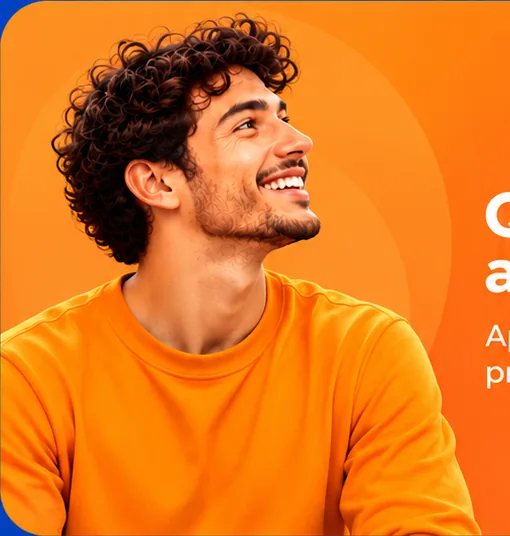
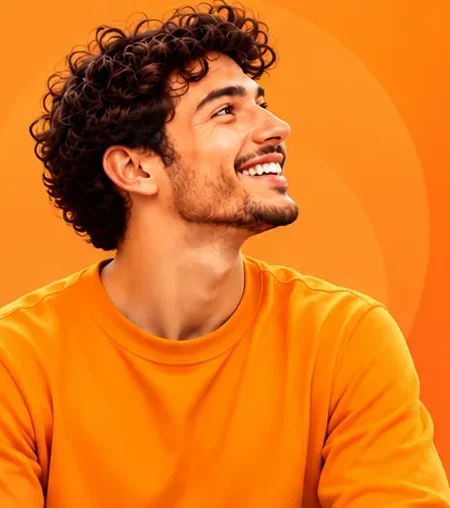
Hazluno: modo computador e foto do "Quiero aprender" sem texto antigo
- Computador (≥1000px): menu no topo em vez da barra de baixo; início com
  cartões em grade; abertura em duas colunas; entrar/criar conta com imagem
  à esquerda e formulário à direita; escolher aprender/ensinar lado a lado;
  foto do curso em faixa; logo não aparece repetido nas páginas
- choose-learn.webp: recortada a borda com texto antigo gravado na imagem

Claude-Session: https://claude.ai/code/session_01HspcqP295BKo9VdY2yVLHw

diff --git a/HAZLUNO/frontend/src/styles.css b/HAZLUNO/frontend/src/styles.css
@@ -902,3 +902,60 @@ a.btn-small { text-decoration: none; }
 .adm-q-blue { background: var(--blue-50); color: var(--blue-800); } .adm-q-green { background: #e5f7ea; color: #137a34; }
 /* Faixa fixa atrás da barra de status do celular: o conteúdo nunca fica por baixo da hora e da bateria. */
 body::before { content: ''; position: fixed; z-index: 1000; top: 0; left: 0; right: 0; height: var(--sat); background: #0a37b3; pointer-events: none; }
+/* =================== modo computador (≥1000px) =================== */
+.tabbar-brand { display: none; }
+@media (min-width: 1000px) {
+  /* menu no topo em vez da barra de baixo */
+  .shell-page { padding-bottom: 0; padding-top: calc(68px + var(--sat)); }
+  .tabbar { top: 0; bottom: auto; display: flex; align-items: center; gap: 4px; height: calc(68px + var(--sat));
+    padding: var(--sat) max(24px, calc((100vw - 1240px) / 2)) 0; box-shadow: 0 8px 24px -18px rgba(3, 18, 70, 0.9); }
+  .tabbar-brand { display: block; margin-right: auto; text-decoration: none; }
+  .tab { flex-direction: row; gap: 8px; padding: 10px 14px; border-radius: 12px; font-size: 15px; }
+  .tab:hover { background: rgba(255, 255, 255, 0.08); }
+  .tab-on { background: rgba(255, 255, 255, 0.12); }
+  .tab-on::after { display: none; }
+  .cta-bar, .choosecls-foot { left: 50%; right: auto; width: min(760px, 100vw); transform: translateX(-50%); }
+
+  /* início do aluno: conteúdo largo e cartões em grade */
+  .home-bar { display: none; }
+  .home-head, .home-body { max-width: 1180px; }
+  .home-head { padding-top: 40px; }
+  .home-question { font-size: 44px; }
+  .home .searchbar { max-width: 640px; }
+  .home .cards-row { grid-auto-flow: row; grid-auto-columns: auto; grid-template-columns: repeat(auto-fill, minmax(300px, 1fr)); overflow: visible; }
+  .home-art { display: none; }
+  .shell-page .page-head > .wordmark, .shell-page .wordmark:first-child { display: none; }
+  /* detalhe do curso: foto em faixa com cantos, sem rosto gigante */
+  .detail-hero { height: 340px; max-width: 1180px; margin: 16px auto 0; border-radius: 24px; }
+  .detail-hero img { object-position: center 30%; }
+
+  /* abertura: foto à esquerda, texto e botões à direita */
+  .welcome { display: grid; grid-template-columns: minmax(0, 1.1fr) minmax(0, 1fr); align-items: center; column-gap: 48px;
+    min-height: 100vh; padding: 0 max(32px, calc((100vw - 1240px) / 2)); }
+  .welcome-hero { max-width: none; align-self: end; }
+  .welcome-hero img { -webkit-mask-image: linear-gradient(90deg, transparent 0, #000 10%, #000 90%, transparent 100%), linear-gradient(180deg, transparent 0, #000 12%, #000 78%, transparent 100%);
+    -webkit-mask-composite: source-in; mask-image: linear-gradient(90deg, transparent 0, #000 10%, #000 90%, transparent 100%), linear-gradient(180deg, transparent 0, #000 12%, #000 78%, transparent 100%); mask-composite: intersect; }
+  .welcome-body { margin: 0; max-width: 520px; padding: 48px 0; align-items: flex-start; text-align: left; }
+  .welcome-tagline { font-size: 30px; max-width: 20ch; }
+  .welcome-features { justify-items: start; }
+  .welcome-legal { justify-content: flex-start; }
+
+  /* entrar / criar conta: imagem à esquerda, formulário à direita */
+  .auth { padding-left: 44vw; min-height: 100vh; }
+  .auth::before { content: ''; position: fixed; left: 0; top: 0; bottom: 0; width: 44vw;
+    background: url(/hero.webp) center bottom / contain no-repeat, linear-gradient(170deg, #0565f0 0%, #0a2f9f 100%); }
+  .auth-photo::before { background: linear-gradient(170deg, #0e6dfd 0%, #0a2f9f 100%); }
+  .auth-photo .auth-art { position: fixed; z-index: 1; left: 0; right: auto; top: auto; bottom: 0; width: 44vw; max-width: none; height: auto;
+    max-height: 92vh; object-fit: contain; object-position: center bottom; -webkit-mask-image: none; mask-image: none; }
+  .auth-bar, .auth-body { max-width: 520px; }
+  .auth-body { padding-top: 6vh; }
+  .auth-title-split, .auth-sub-narrow { max-width: none; }
+
+  /* escolher aprender / ensinar: dois cartões lado a lado */
+  .choose-bar, .choose-body { max-width: 1040px; }
+  .choose-body { display: grid; grid-template-columns: 1fr 1fr; gap: 24px; padding-top: 32px; }
+  .choose-title, .choose-switch { grid-column: 1 / -1; }
+  .choose-title { font-size: 40px; }
+  .choose-card { min-height: 340px; grid-template-columns: 48% 1fr; }
+  .choose-card:hover { transform: translateY(-3px); }
+}

diff --git a/HAZLUNO/frontend/src/ui/shell.tsx b/HAZLUNO/frontend/src/ui/shell.tsx
@@ -1,9 +1,10 @@
 import { CalendarDays, Heart, Home, Search, UserRound } from 'lucide-react';
 import type { ReactNode } from 'react';
-import { NavLink } from 'react-router-dom';
+import { Link, NavLink } from 'react-router-dom';
 import { useI18n } from '../i18n';
+import { Wordmark } from './kit';
 
-/** Signed-in layout: page content + bottom navigation (Inicio, Buscar, Mis clases, Favoritos, Perfil). */
+/** Signed-in layout: page content + navigation (bottom bar on phones, top bar on computers). */
 export function Shell({ children, tone = 'blue' }: { children: ReactNode; tone?: 'blue' | 'soft' }) {
   const { t } = useI18n();
   const items = [
@@ -17,6 +18,7 @@ export function Shell({ children, tone = 'blue' }: { children: ReactNode; tone?:
     <div className={`shell shell-${tone}`}>
       <div className="shell-page">{children}</div>
       <nav className="tabbar" aria-label="Hazluno">
+        <Link to="/home" className="tabbar-brand" aria-label={t.nav.home}><Wordmark size="sm" /></Link>
         {items.map(({ to, icon: Icon, label }) => (
           <NavLink key={to} to={to} className={({ isActive }) => `tab${isActive ? ' tab-on' : ''}`}>
             <Icon size={24} aria-hidden />

diff --git a/HAZLUNO/frontend/src/screens/Signup.tsx b/HAZLUNO/frontend/src/screens/Signup.tsx
@@ -74,7 +74,7 @@ export function Signup() {
         <div className="choose-body">
           <h1 className="choose-title">{t.signup.chooseTitle}</h1>
           <button type="button" className="choose-card choose-learn" onClick={() => setIntent('learn')}>
-            <img src="/choose-learn.webp" alt="" width={510} height={536} />
+            <img src="/choose-learn.webp" alt="" width={450} height={508} />
             <span className="choose-copy">
               <GraduationCap className="choose-icon" size={44} strokeWidth={2} aria-hidden />
               <strong>{t.signup.learnTitle}</strong>
